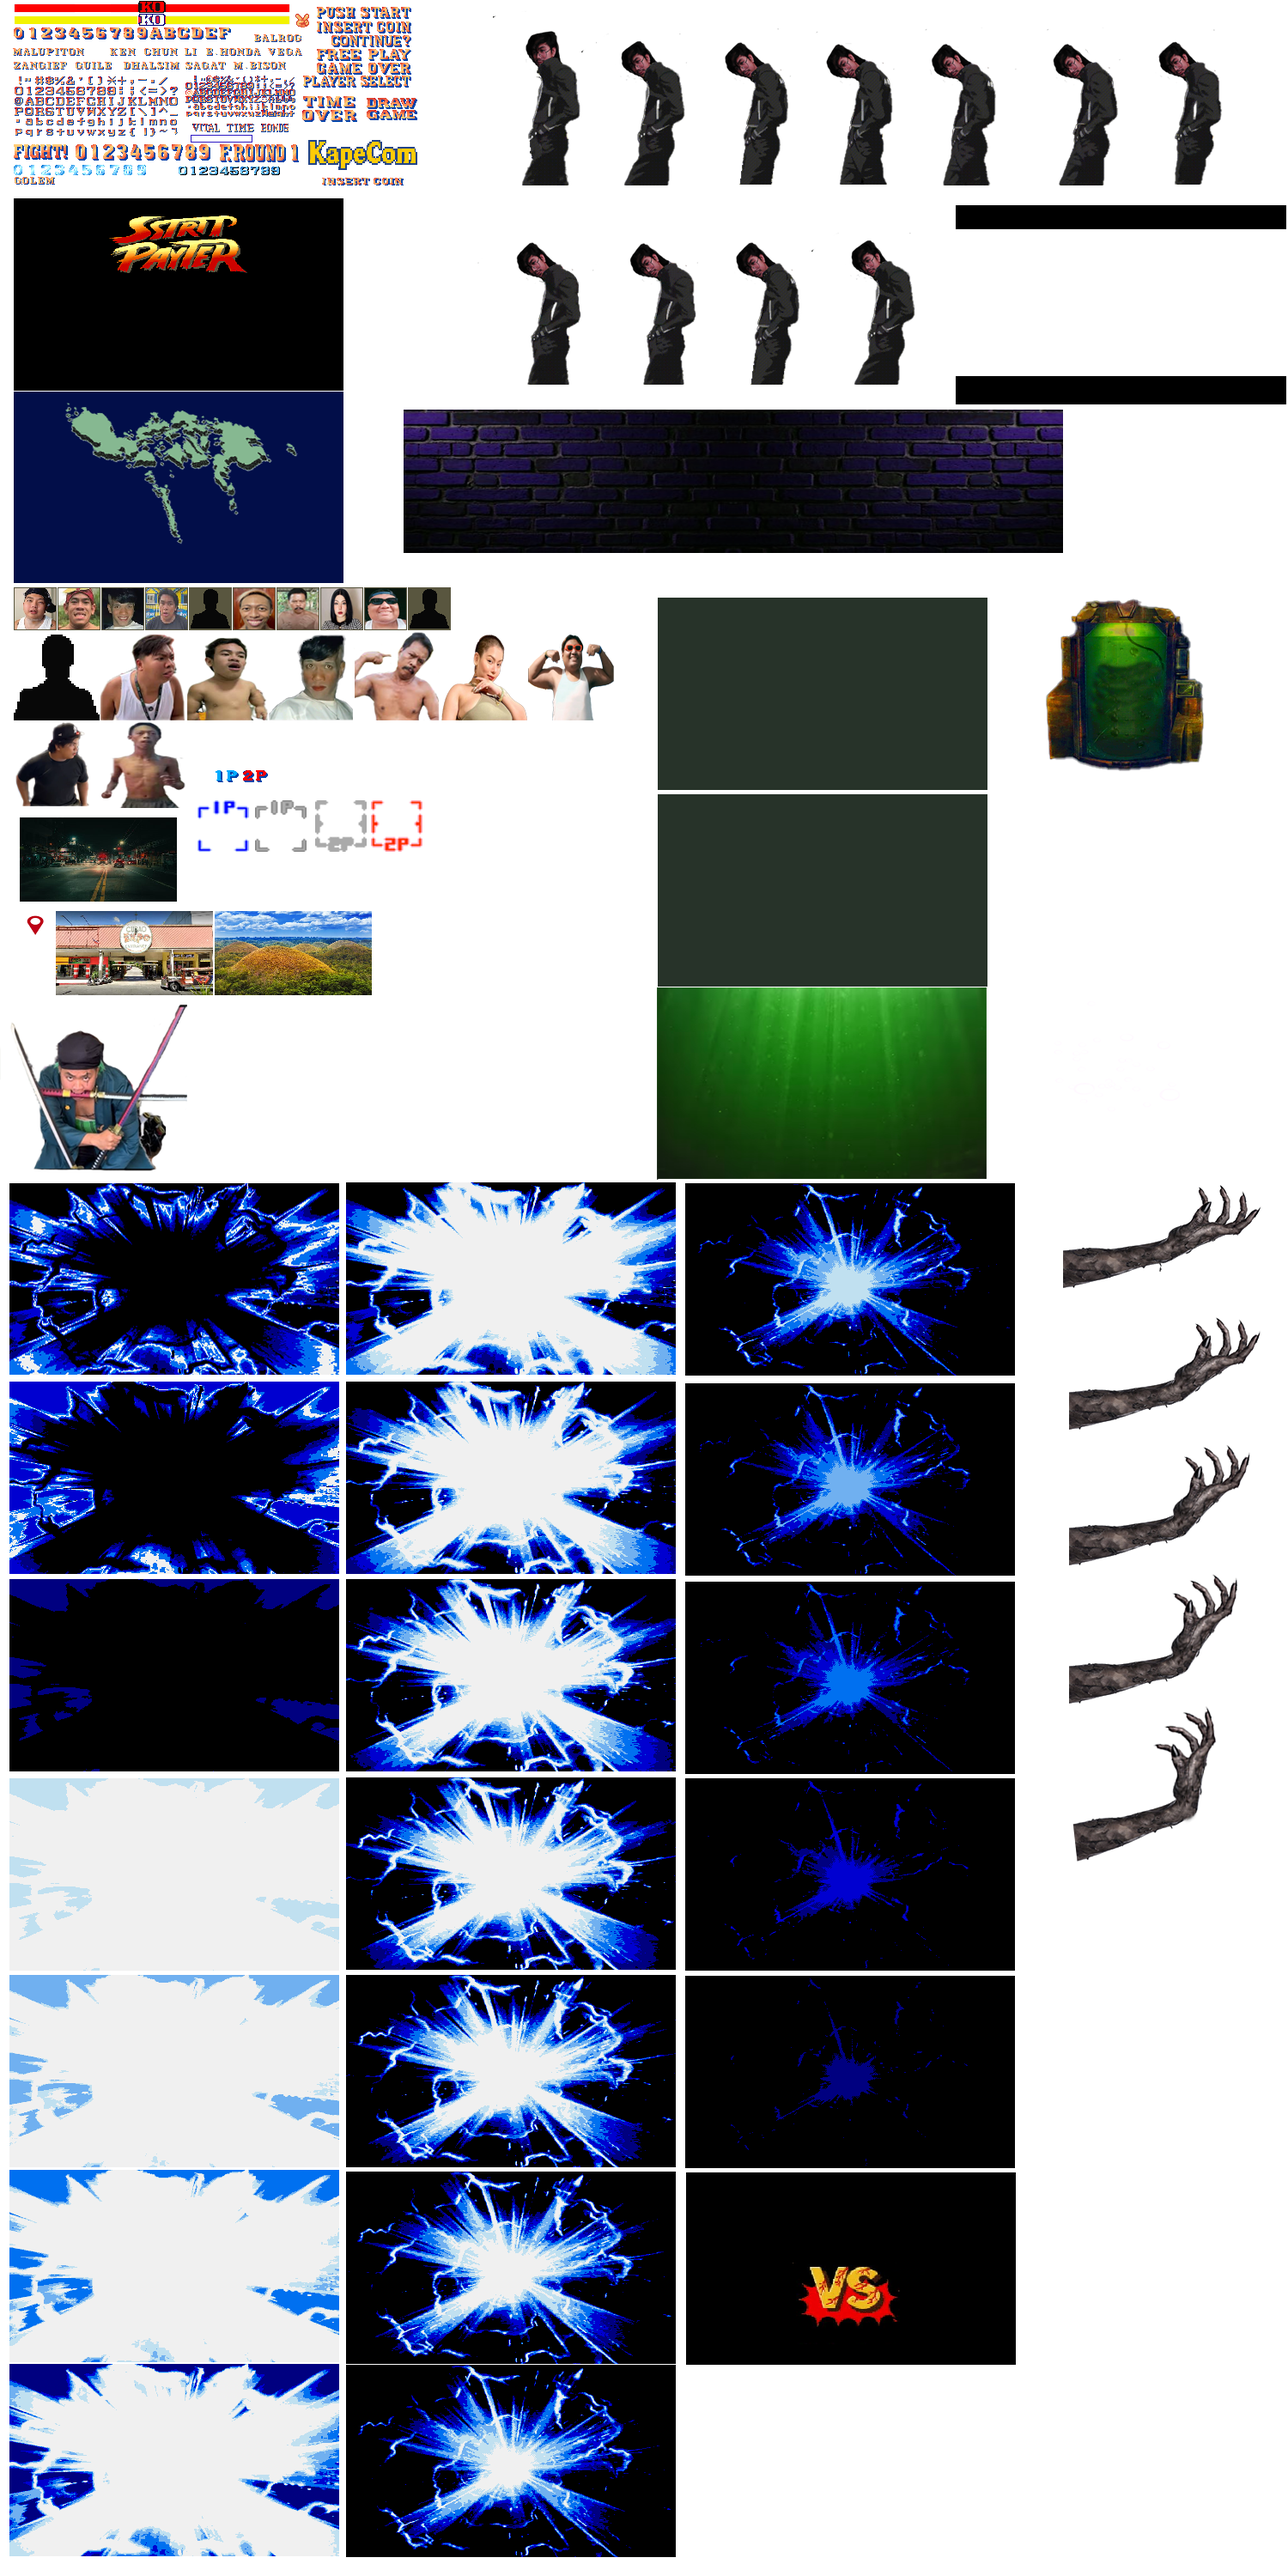
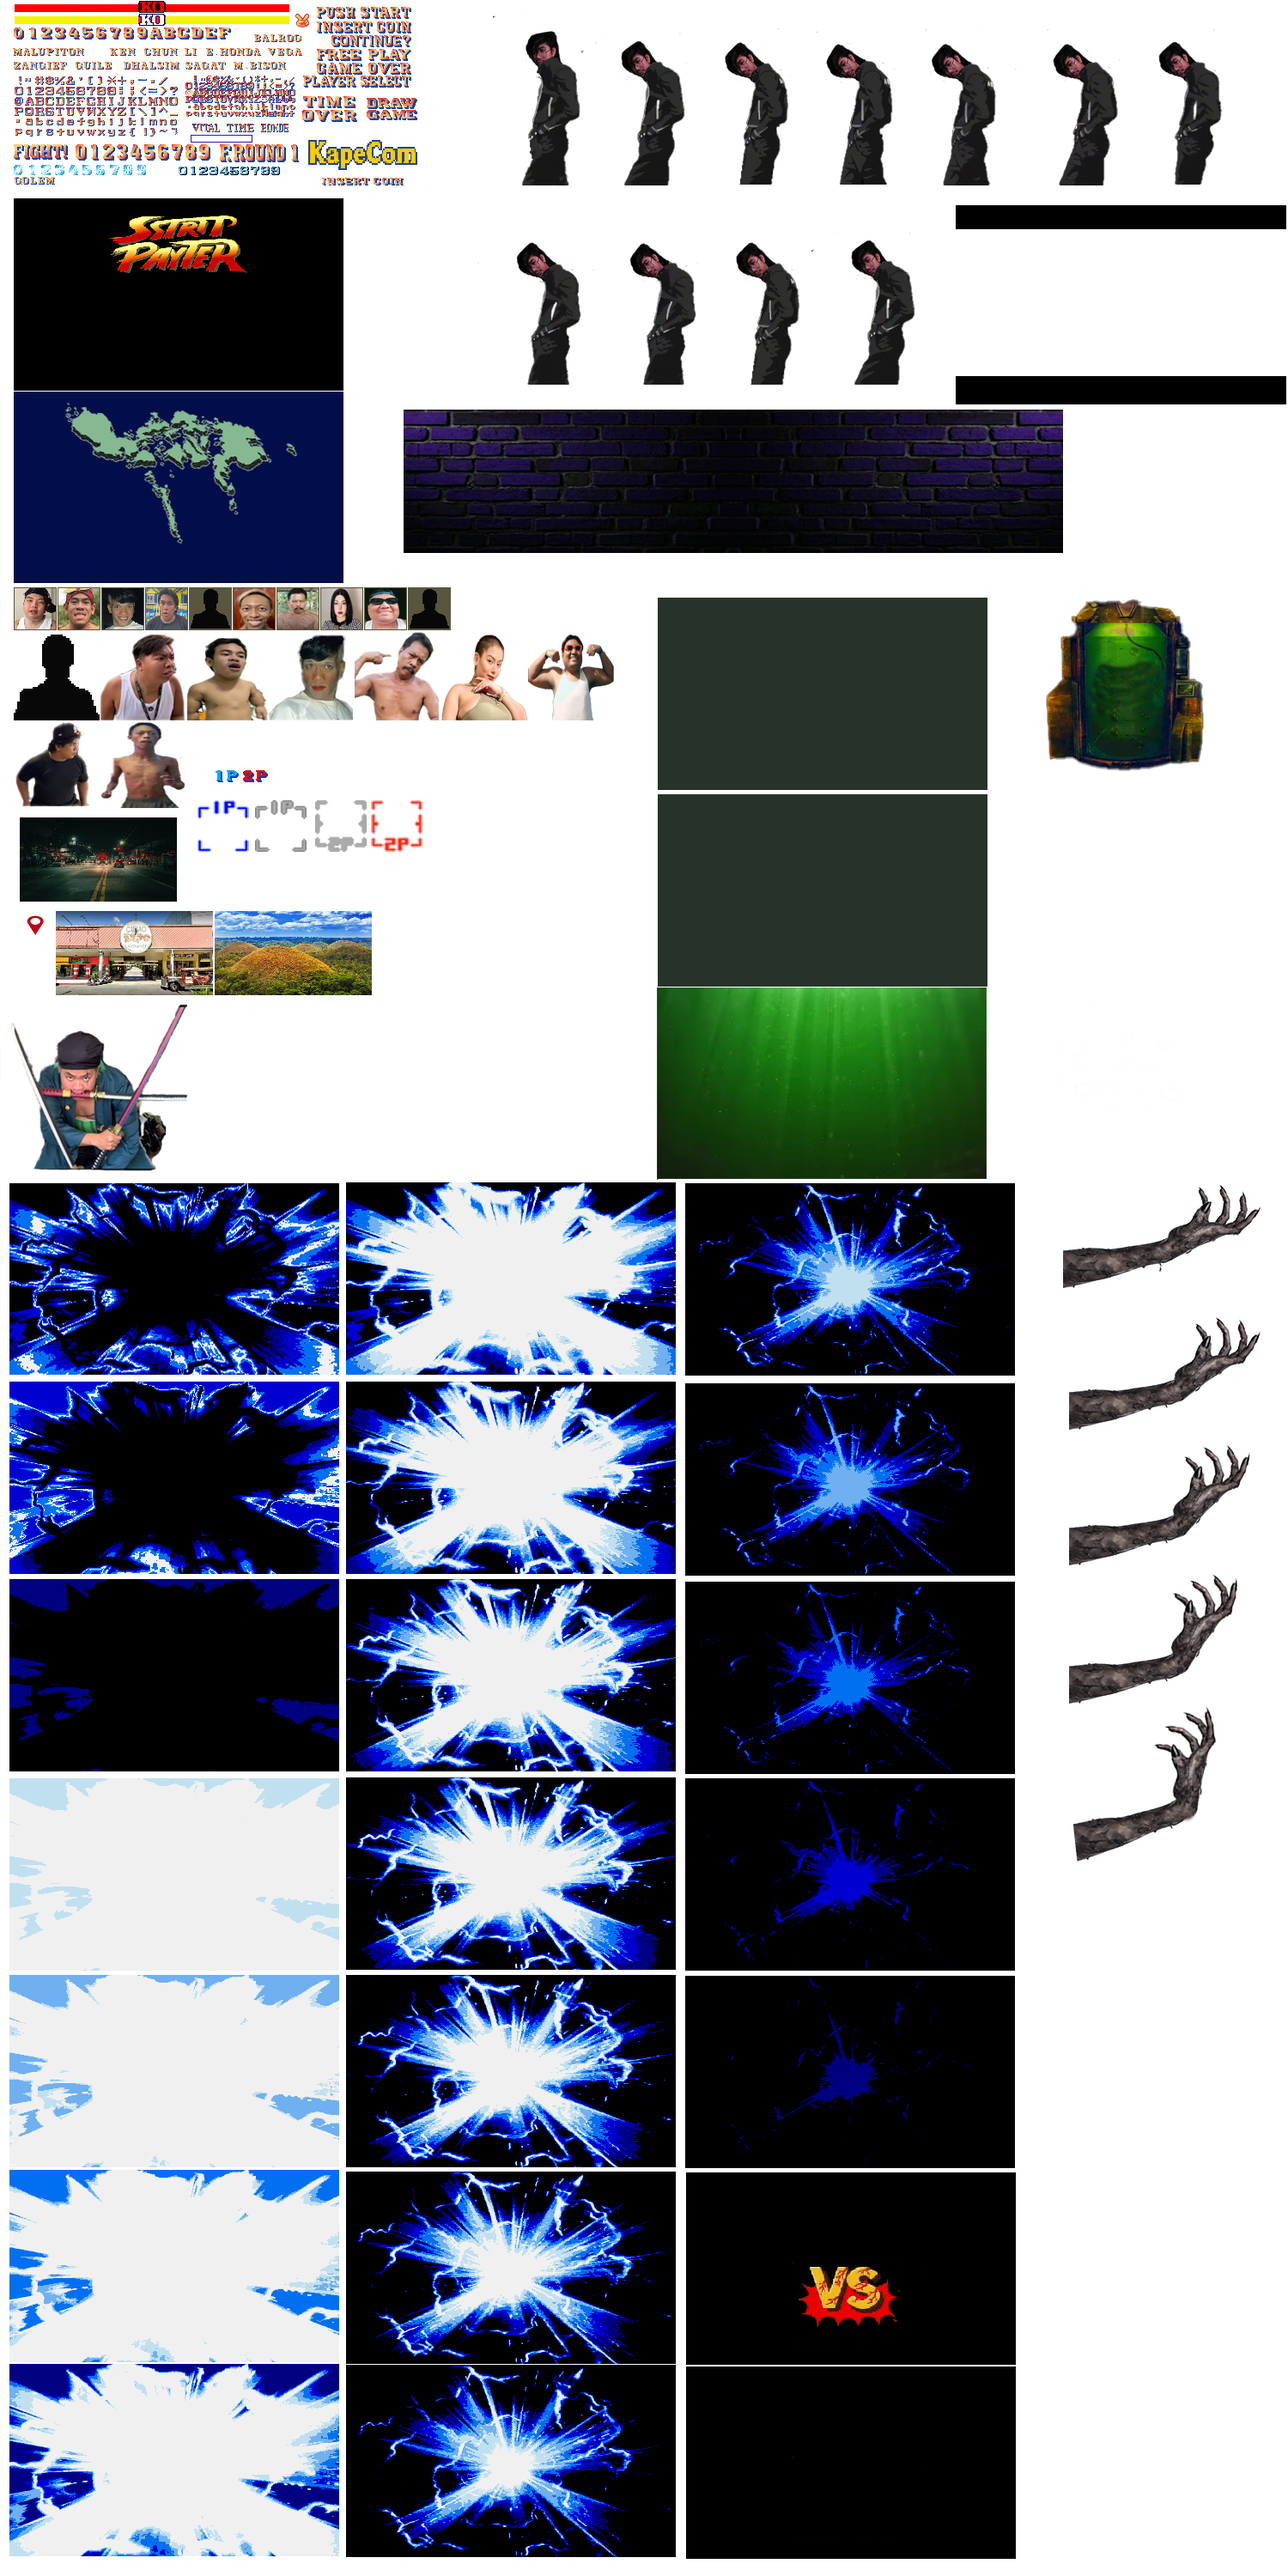
fix post match with sayings oct 24 2025

Changed region(s): [[0.5213, 0.899, 0.7973, 1.0]]

diff --git a/src/scenes/PrePostMatch.js b/src/scenes/PrePostMatch.js
@@ -69,6 +69,9 @@ export class PrePostMatch {
         this.selectedCharacterP2 = selectedCharacters[1].name;
         this.selectedCharacterP1NamePos = selectedCharacters[0].namePos;
         this.selectedCharacterP2NamePos = selectedCharacters[1].namePos;
+        this.selectedCharacterP1Saying = selectedCharacters[0].sayings;
+        this.selectedCharacterP2Saying = selectedCharacters[1].sayings;
+
         console.log(this.selectedCharacterP1, this.selectedCharacterP2);
         console.log(this.selectedCharacterP1NamePos, this.selectedCharacterP2NamePos);
         gameState.fighters = [createDefaultFighterState(this.selectedCharacterP1),createDefaultFighterState(this.selectedCharacterP2)];
@@ -160,6 +163,7 @@ export class PrePostMatch {
 
                     //Vs Screen
                     ['vs-screen', [799, 2530, 384, 224]],
+                    ['post-screen', [799, 2756, 384, 224]],
                      
 
                                
@@ -419,6 +423,24 @@ drawFrame(context, frameKey, x, y, direction = 1, scale = 1, alpha = 1) {
     context.restore();
 }
 
+//draw sayings
+drawSayings(context){
+     const player1Saying = this.selectedCharacterP1Saying;
+     const player2Saying = this.selectedCharacterP2Saying;
+
+        if(gameState.gamePlayerWinned === 'P1') this.drawPlayerSaying(context, player1Saying, 40);
+        else if(gameState.gamePlayerWinned === 'P2') this.drawPlayerSaying(context, player2Saying, 40);
+}
+
+drawPlayerSaying(context, sayings, x){
+        const saying = sayings.toUpperCase();
+        const strValue = String(saying);
+        
+        for(let i = 0; i < strValue.length; i++){
+            this.drawFrame(context, `score-${strValue[i]}`, x + i * 9, 178);
+        }
+}
+
 //Name Tags Draw
 drawNameTags(context){
         const nameP1 = gameState.fighters[0].id;
@@ -461,14 +483,17 @@ drawImageBig(context){
 }
 
 drawVsScreen(context){
-        this.drawFrame(context, 'vs-screen', 0, 0);
+    if(gameState.gameScene === 'prematch')this.drawFrame(context, 'vs-screen', 0, 0);
+    else if(gameState.gameScene === 'postmatch')this.drawFrame(context, 'post-screen', 0, 0);
 }
 
     draw(context) {
         this.drawVsScreen(context);
-        this.drawNameTags(context);
+        
          if(this.screenanim2.trigger === true){
         this.drawImageBig(context);
+        if(gameState.gameScene === 'prematch') this.drawNameTags(context);
+        if(gameState.gameScene === 'postmatch') this.drawSayings(context);
        
       
         this.drawCredits(context);

diff --git a/src/scenes/CharacterSelect.js b/src/scenes/CharacterSelect.js
@@ -33,16 +33,16 @@ export class CharacterSelect {
     ];
 
     characters = [
-        { name: "Malupiton", color: "gray", imageSml: 'malupitonSmall', imageBig: 'malupitonBig', namePos: 5, },
-        { name: "Babygiant", color: "gray",  imageSml: 'babygiantSmall', imageBig: 'babygiantBig', namePos: 5 },
-        { name: "Unknown1", color: "gray", imageSml: 'unknownSmall', imageBig: 'unknownBig', namePos: 5 },
-        { name: "Otlum", color: "gray", imageSml: 'otlumSmall', imageBig: 'otlumBig', namePos: 20 },
-        { name: "Golem", color: "gray", imageSml: 'golemSmall', imageBig: 'golemBig', namePos: 20 },
-        { name: "Lamok", color: "gray",  imageSml: 'lamokSmall', imageBig: 'lamokBig', namePos: 20 },
-        { name: "Pinuno", color: "gray",  imageSml: 'pinunoSmall', imageBig: 'pinunoBig', namePos: 5 },
-        { name: "Toni", color: "gray",  imageSml: 'toniSmall', imageBig: 'toniBig', namePos: 20 },
-        { name: "Tyga", color: "gray",  imageSml: 'tygaSmall', imageBig: 'tygaBig', namePos: 20 },
-        { name: "Unknown6", color: "gray",  imageSml: 'unknownSmall', imageBig: 'unknownBig', namePos: 5 },
+        { name: "Malupiton", color: "gray", imageSml: 'malupitonSmall', imageBig: 'malupitonBig', namePos: 5, sayings: 'Sabi ko naman sayo burger ka saken',},
+        { name: "Babygiant", color: "gray",  imageSml: 'babygiantSmall', imageBig: 'babygiantBig', namePos: 5, sayings: 'None'},
+        { name: "Unknown1", color: "gray", imageSml: 'unknownSmall', imageBig: 'unknownBig', namePos: 5, sayings: 'None' },
+        { name: "Otlum", color: "gray", imageSml: 'otlumSmall', imageBig: 'otlumBig', namePos: 20, sayings: 'None' },
+        { name: "Golem", color: "gray", imageSml: 'golemSmall', imageBig: 'golemBig', namePos: 20, sayings: 'None' },
+        { name: "Lamok", color: "gray",  imageSml: 'lamokSmall', imageBig: 'lamokBig', namePos: 20, sayings: 'None' },
+        { name: "Pinuno", color: "gray",  imageSml: 'pinunoSmall', imageBig: 'pinunoBig', namePos: 5, sayings: 'None' },
+        { name: "Toni", color: "gray",  imageSml: 'toniSmall', imageBig: 'toniBig', namePos: 20, sayings: 'None' },
+        { name: "Tyga", color: "gray",  imageSml: 'tygaSmall', imageBig: 'tygaBig', namePos: 20, sayings: 'None' },
+        { name: "Unknown6", color: "gray",  imageSml: 'unknownSmall', imageBig: 'unknownBig', namePos: 5 , sayings: 'None'},
     ];
 
     stage = [

diff --git a/src/constants/fighter.js b/src/constants/fighter.js
@@ -200,7 +200,7 @@ export const hurtStateValidFrom = [
     FighterState.LIGHT_KICK, FighterState.HEAVY_KICK,
     FighterState.HURT_HEAD_LIGHT, FighterState.HURT_HEAD_HEAVY,
     FighterState.HURT_BODY_LIGHT, FighterState.HURT_BODY_HEAVY,
-    FighterState.CROUCH_LIGHTKICK, FighterState.CROUCH_HEAVYKICK,
+    FighterState.CROUCH_LIGHTKICK, FighterState.CROUCH_HEAVYKICK, FighterState.CROUCH, FighterState.CROUCH_DOWN, FighterState.CROUCH_UP, FighterState.CROUCH_TURN,
     FighterState.JUMP_HEAVYKICK, FighterState.JUMP_LIGHTKICK,
     FighterState.SPECIAL_1, FighterState.SPECIAL_2,FighterState.DODGE_BACKWARD, FighterState.DODGE_FORWARD, FighterState.BLOCK, FighterState.CROUCH_BLOCK, FighterState.DODGE_FORWARD,
     FighterState.DODGE_BACKWARD, FighterState.HYPERSKILL_2, FighterState.DIE, FighterState.DEATH,
@@ -213,7 +213,7 @@ export const knockUpStateValidFrom = [
     FighterState.LIGHT_KICK, FighterState.HEAVY_KICK,
     FighterState.HURT_HEAD_LIGHT, FighterState.HURT_HEAD_HEAVY,
     FighterState.HURT_BODY_LIGHT, FighterState.HURT_BODY_HEAVY,
-    FighterState.CROUCH_LIGHTKICK, FighterState.CROUCH_HEAVYKICK,
+    FighterState.CROUCH_LIGHTKICK, FighterState.CROUCH_HEAVYKICK, FighterState.CROUCH, FighterState.CROUCH_DOWN, FighterState.CROUCH_UP, FighterState.CROUCH_TURN,
     FighterState.JUMP_HEAVYKICK, FighterState.JUMP_LIGHTKICK,
     FighterState.SPECIAL_1, FighterState.SPECIAL_2,FighterState.DODGE_BACKWARD, FighterState.DODGE_FORWARD, FighterState.BLOCK, FighterState.CROUCH_BLOCK, FighterState.DODGE_FORWARD,
     FighterState.DODGE_BACKWARD, FighterState.HYPERSKILL_2, FighterState.KNOCKUP,

diff --git a/src/scenes/Battlescene.js b/src/scenes/Battlescene.js
@@ -53,6 +53,10 @@ export class BattleScene {
         console.log(this.selectedCharacterP1, this.selectedCharacterP2);
         gameState.fighters = [createDefaultFighterState(this.selectedCharacterP1),createDefaultFighterState(this.selectedCharacterP2)];
         gameState.gameScene = 'postmatch';
+        gameState.flash = false;
+        gameState.rounds = 0;
+        gameState.hyperSkill = false;
+        gameState.pauseTimer = 0;
 
         this.entities = new EntityList();
         this.stage = this.getStageMap();
@@ -242,7 +246,7 @@ export class BattleScene {
         }
     // Let AI control fighter 1 (index 1)
     if(this.statsBar.enemyStart === true){
-       // this.enemyAI.update(time);
+     //  this.enemyAI.update(time);
        //  this.enemyAI2.update(time);
     }
    
@@ -291,6 +295,8 @@ export class BattleScene {
             if(gameState.fighters[0].wins === 2 || gameState.fighters[1].wins === 2){
                 registerKeyboardEvents();
                 registerScreenButtonEvents();
+                if(gameState.fighters[0].wins === 2) gameState.gamePlayerWinned = 'P1';
+                else if(gameState.fighters[1].wins === 2) gameState.gamePlayerWinned = 'P2';
                 
                 gameState.slowFX = 1;
                 gameState.fighters[0].wins = 0;
@@ -368,7 +374,7 @@ winFinish(){
     if(gameState.fighters[0].wins === 2 || gameState.fighters[1].wins === 2){
         this.timeScale = 0.3;
         this.statsBar.music.pause();
-        gameState.slowFX = 1.03;
+        gameState.slowFX = 1.007;
     }
 }
 

diff --git a/src/StreetFighterGame.js b/src/StreetFighterGame.js
@@ -13,6 +13,7 @@ const selectedCharacters = [
     { 
         name: "Malupiton", 
         namePos: 5,
+        sayings: 'Sabi ko naman sayo burger ka saken',
         color: "gray", 
         imageSml: 'malupitonSmall', 
         imageBig: 'malupitonBig' 
@@ -21,6 +22,7 @@ const selectedCharacters = [
         name: "Malupiton", 
         color: "gray", 
         namePos: 5,
+        sayings: 'Sabi ko naman sayo burger ka saken',
         imageSml: 'malupitonSmall', 
         imageBig: 'malupitonBig' 
     }
@@ -36,10 +38,10 @@ export class StreetFighterGame{
 
     constructor(){
         
- //this.scene = new Intro(this);
-// this.scene = new BattleScene(this, selectedCharacters);
+ this.scene = new Intro(this);
+//this.scene = new BattleScene(this, selectedCharacters);
  //this.scene = new CharacterSelect(this);
- this.scene = new PrePostMatch(this, selectedCharacters);
+// this.scene = new PrePostMatch(this, selectedCharacters);
     }
 
     setScene(newScene) {

diff --git a/src/entities/IntroScreen.js b/src/entities/IntroScreen.js
@@ -272,9 +272,6 @@ export class IntroScreen {
            // this.useFlashFrames = !this.useFlashFrames;
             this.timeFlashTimer = time.previous;
         }
-      
-        
-
     }
 
     updateScreenScene(){

diff --git a/src/state/gameState.js b/src/state/gameState.js
@@ -14,6 +14,7 @@ export const gameState = {
     //  createDefaultFighterState(FighterId.GOLEM),
     ],
     gameScene: 'prematch',
+    gamePlayerWinned: 'P1',
     rounds: 0,
     pause: false,
     slowFX: 1,
